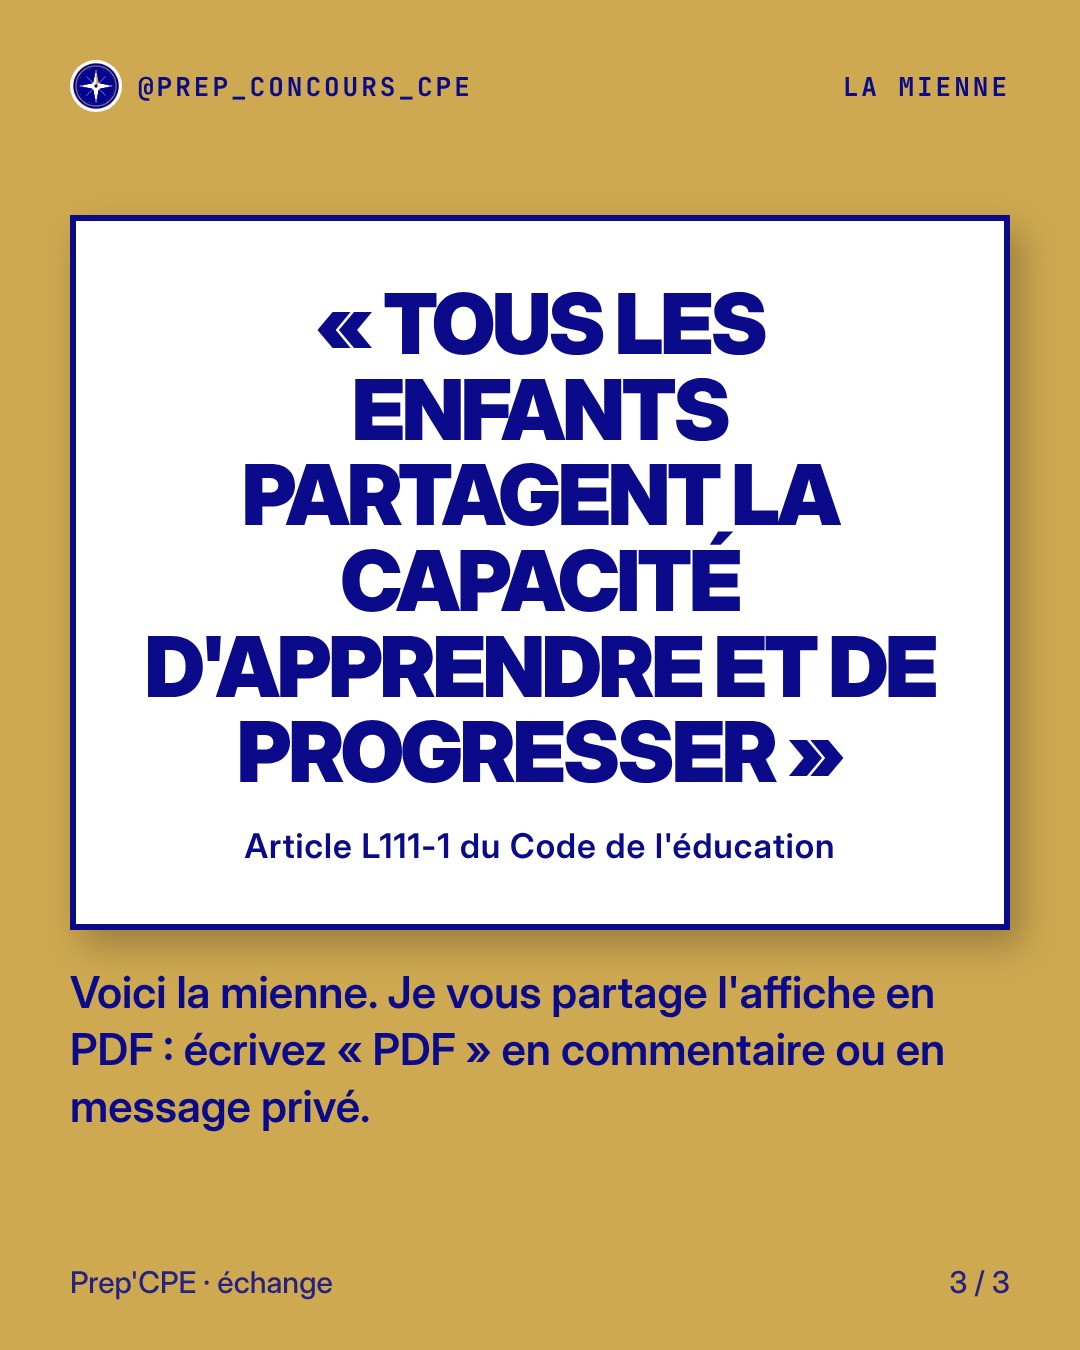
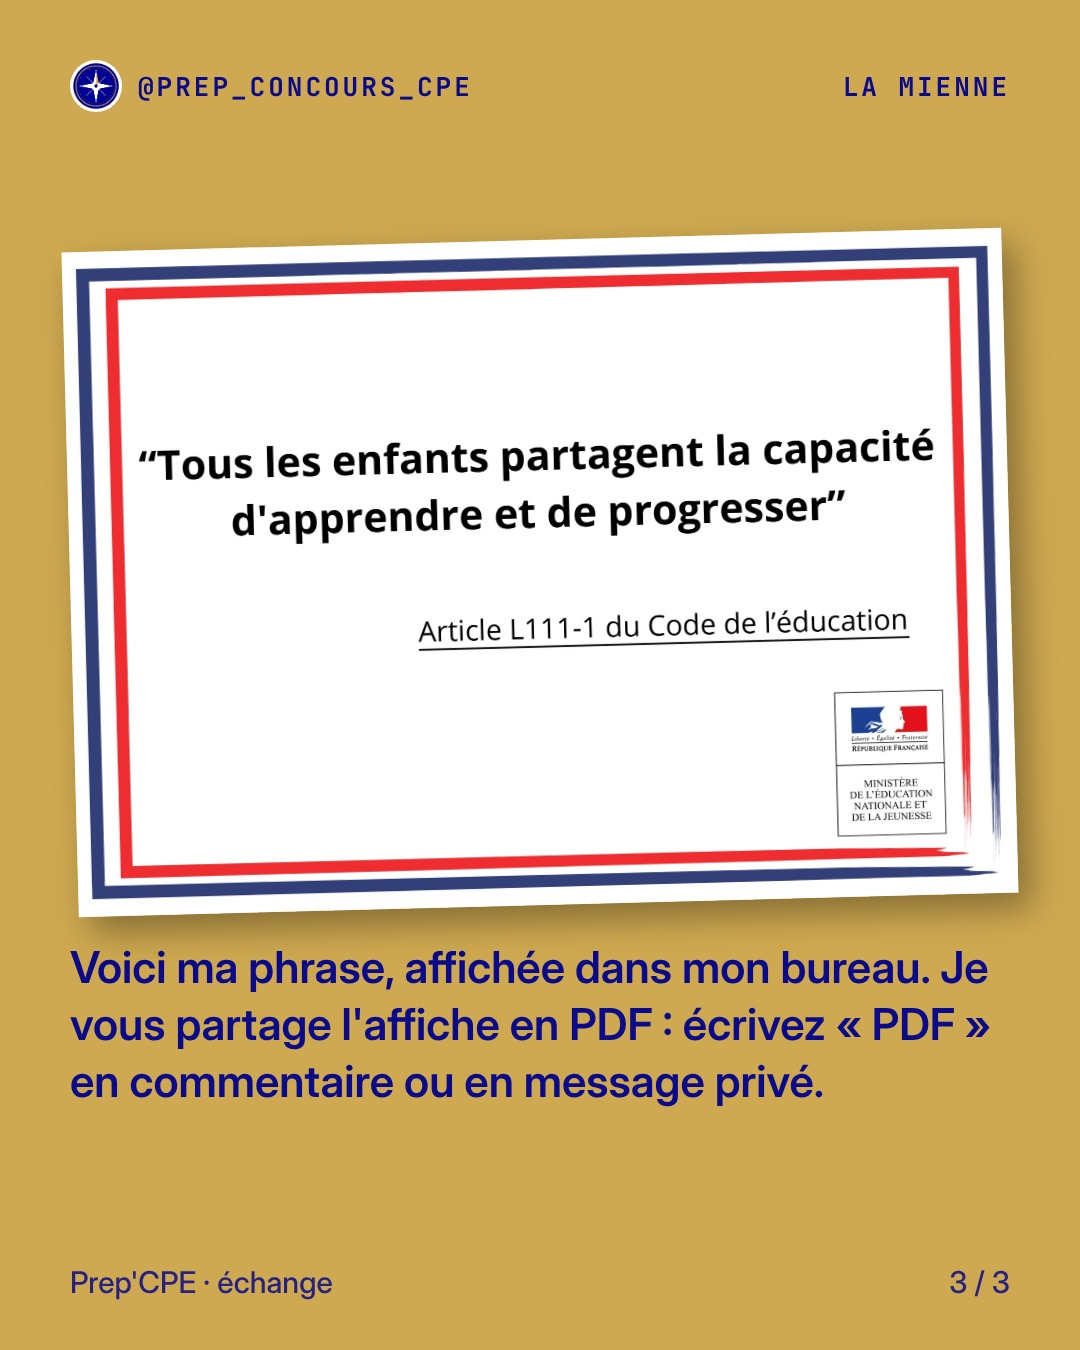
Carrousel phrase guide : capture de l'affiche en slide 3
Claude-Session: https://claude.ai/code/session_01FvtqKS2a9jhztCiMdp3pre

Changed region(s): [[0.0306, 0.1556, 0.9472, 0.84]]

diff --git a/posts/phrase-guide/LEGENDE.md b/posts/phrase-guide/LEGENDE.md
@@ -8,7 +8,7 @@ On a tous une phrase qui guide notre action d'éducateur, même sans l'avoir jam
 
 Si vous deviez en afficher une dans votre bureau, ce serait laquelle ? Une citation, un article de loi, un mot d'élève, d'un collègue ou d'un auteur…
 
-La mienne : « Tous les enfants partagent la capacité d'apprendre et de progresser » (article L111-1 du Code de l'éducation).
+La mienne, c'est mon affiche : « Tous les enfants partagent la capacité d'apprendre et de progresser » (article L111-1 du Code de l'éducation).
 
 Dites-moi la vôtre en commentaire 👇 Et si vous voulez l'affiche de la mienne en PDF, écrivez « PDF » en commentaire ou en message privé, je vous l'envoie.
 
